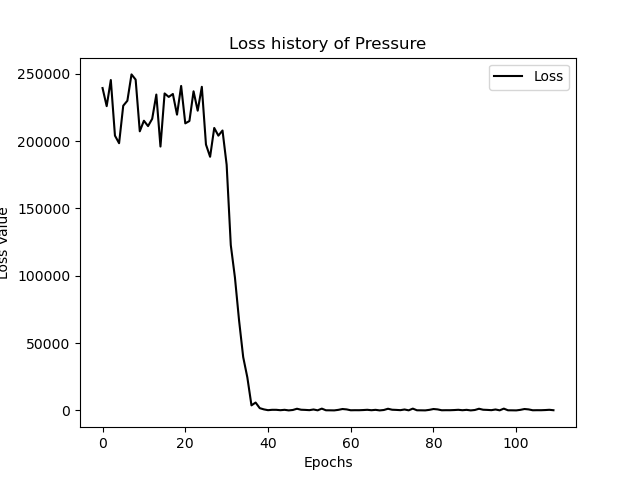
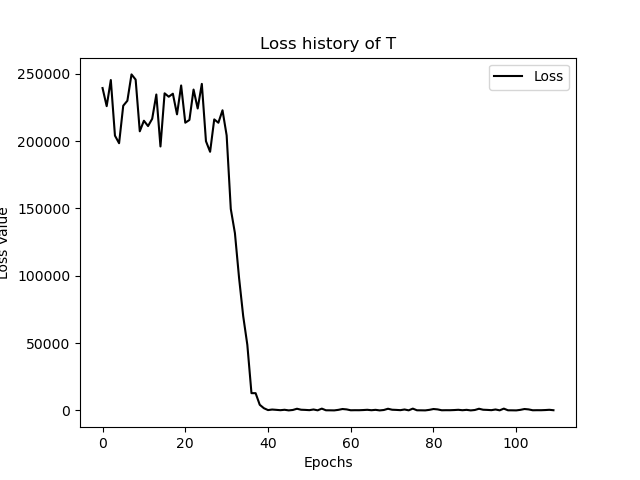
bug fix for class FSimDataset: about ouput coords

Changed region(s): [[0.2812, 0.1875, 0.4062, 0.8438], [0.375, 0.0625, 0.6562, 0.125], [0.4062, 0.8438, 0.4375, 0.875]]

diff --git a/PSP/WriteVTRs.py b/PSP/WriteVTRs.py
@@ -15,7 +15,7 @@ def WriteVTRs(idxBlk:int, dirVTR:Path, dirHDF:Path)->None:
   h5 = h5py.File(dirHDF, 'r')
 
   # take "C001" as an example. Other case can be selected too. 
-  grpName = "C001"
+  grpName = "FNN_Out"
 
   # first to read X/Y/Z, giving dims
 
@@ -23,19 +23,21 @@ def WriteVTRs(idxBlk:int, dirVTR:Path, dirHDF:Path)->None:
   datasetName = "Block-" + "%02d"%idxBlk + "-X"
   coordsX = h5[grpName][datasetName][:]
 
-  lenX = len(coordsX)#; print("lenX = ", lenX)
+  print("------- The block idx: ", idxBlk)
+
+  lenX = len(coordsX); print("lenX = ", lenX)
 
   # Y
   datasetName = "Block-" + "%02d"%idxBlk + "-Y"
   coordsY = h5[grpName][datasetName][:]
 
-  lenY = len(coordsY)#; print("lenY = ", lenY)
+  lenY = len(coordsY); print("lenY = ", lenY)
 
   # Z
   datasetName = "Block-" + "%02d"%idxBlk + "-Z"
   coordsZ = h5[grpName][datasetName][:]
 
-  lenZ = len(coordsZ)#; print("lenZ = ", lenZ)
+  lenZ = len(coordsZ); print("lenZ = ", lenZ)
 
   # define the dims: start and final index
   iSta = 1; iEnd = lenX#; print(iSta, iEnd)

diff --git a/FNN/FNN_T.py b/FNN/FNN_T.py
@@ -79,6 +79,10 @@ class FSimDataset(Dataset):
       coords["z"].append(crd)
       pass
 
+    del coords["x"][0]
+    del coords["y"][0]
+    del coords["z"][0]
+
     return inp, torch.FloatTensor(data), coords
   
   def plotVTK(self, idx):
@@ -390,7 +394,7 @@ class Regression(nn.Module):
   # 打印损失函数
   def saveLossHistory2PNG(self):
     df = pandas.DataFrame(self.progress, columns=["Loss"])
-    ax = df.plot( title  = "Loss history of Pressure",\
+    ax = df.plot( title  = "Loss history of T",\
                   color  = "black",                   \
                   xlabel = "Epochs",                  \
                   ylabel = "Loss Value")

diff --git a/FNN/FNN_U.py b/FNN/FNN_U.py
@@ -79,6 +79,10 @@ class FSimDataset(Dataset):
       coords["z"].append(crd)
       pass
 
+    del coords["x"][0]
+    del coords["y"][0]
+    del coords["z"][0]
+
     return inp, torch.FloatTensor(data), coords
   
   def plotVTK(self, idx):
@@ -390,7 +394,7 @@ class Regression(nn.Module):
   # 打印损失函数
   def saveLossHistory2PNG(self):
     df = pandas.DataFrame(self.progress, columns=["Loss"])
-    ax = df.plot( title  = "Loss history of Pressure",\
+    ax = df.plot( title  = "Loss history of U",\
                   color  = "black",                   \
                   xlabel = "Epochs",                  \
                   ylabel = "Loss Value")

diff --git a/FNN/FNN_V.py b/FNN/FNN_V.py
@@ -79,6 +79,10 @@ class FSimDataset(Dataset):
       coords["z"].append(crd)
       pass
 
+    del coords["x"][0]
+    del coords["y"][0]
+    del coords["z"][0]
+
     return inp, torch.FloatTensor(data), coords
   
   def plotVTK(self, idx):
@@ -390,7 +394,7 @@ class Regression(nn.Module):
   # 打印损失函数
   def saveLossHistory2PNG(self):
     df = pandas.DataFrame(self.progress, columns=["Loss"])
-    ax = df.plot( title  = "Loss history of Pressure",\
+    ax = df.plot( title  = "Loss history of V",\
                   color  = "black",                   \
                   xlabel = "Epochs",                  \
                   ylabel = "Loss Value")

diff --git a/FNN/FNN_W.py b/FNN/FNN_W.py
@@ -79,6 +79,10 @@ class FSimDataset(Dataset):
       coords["z"].append(crd)
       pass
 
+    del coords["x"][0]
+    del coords["y"][0]
+    del coords["z"][0]
+
     return inp, torch.FloatTensor(data), coords
   
   def plotVTK(self, idx):
@@ -390,7 +394,7 @@ class Regression(nn.Module):
   # 打印损失函数
   def saveLossHistory2PNG(self):
     df = pandas.DataFrame(self.progress, columns=["Loss"])
-    ax = df.plot( title  = "Loss history of Pressure",\
+    ax = df.plot( title  = "Loss history of W",\
                   color  = "black",                   \
                   xlabel = "Epochs",                  \
                   ylabel = "Loss Value")

diff --git a/PSP/PSP_HDF2VTK.py b/PSP/PSP_HDF2VTK.py
@@ -13,7 +13,7 @@ from WriteVTM import WriteVTM
 from WriteVTRs import WriteVTRs
 
 numOfBlocks = 8
-dirVTM = Path("./FNN")
+dirVTM = Path("./FNN_Case_Test")
 if not dirVTM.exists(): dirVTM.mkdir()
 #if dirVTM.exists(): dirVTM.rmdir() # 删除一个空目录
 
@@ -28,7 +28,7 @@ print(dirVTR)
 
 if not dirVTR.exists(): dirVTR.mkdir(parents=True)
 
-dirHDF = Path("./").joinpath("matrixData.h5")
+dirHDF = Path("../FNN").joinpath("fnn.h5")
 alive = dirHDF.exists()
 print("HDF File exists? ", alive)
 

diff --git a/FNN/FNN_P.py b/FNN/FNN_P.py
@@ -79,6 +79,10 @@ class FSimDataset(Dataset):
       coords["z"].append(crd)
       pass
 
+    del coords["x"][0]
+    del coords["y"][0]
+    del coords["z"][0]
+
     return inp, torch.FloatTensor(data), coords
   
   def plotVTK(self, idx):
@@ -413,7 +417,7 @@ for i in range(epochs):
   pass
 
 # 绘制损失函数历史
-#R.saveLossHistory2PNG()
+R.saveLossHistory2PNG()
 
 # 预测
 

diff --git a/Test/t241212_list_append.py b/Test/t241212_list_append.py
@@ -14,6 +14,18 @@ b.append([2,3,5])
 print(b)
 print(type(b), len(b))
 
+c = [[]]
+print(len(c))
+print(c)
+
+c.append([1,2])
+print(len(c))
+print(c)
+
+del c[0]
+print(len(c))
+print(c)
+
 
 
 
